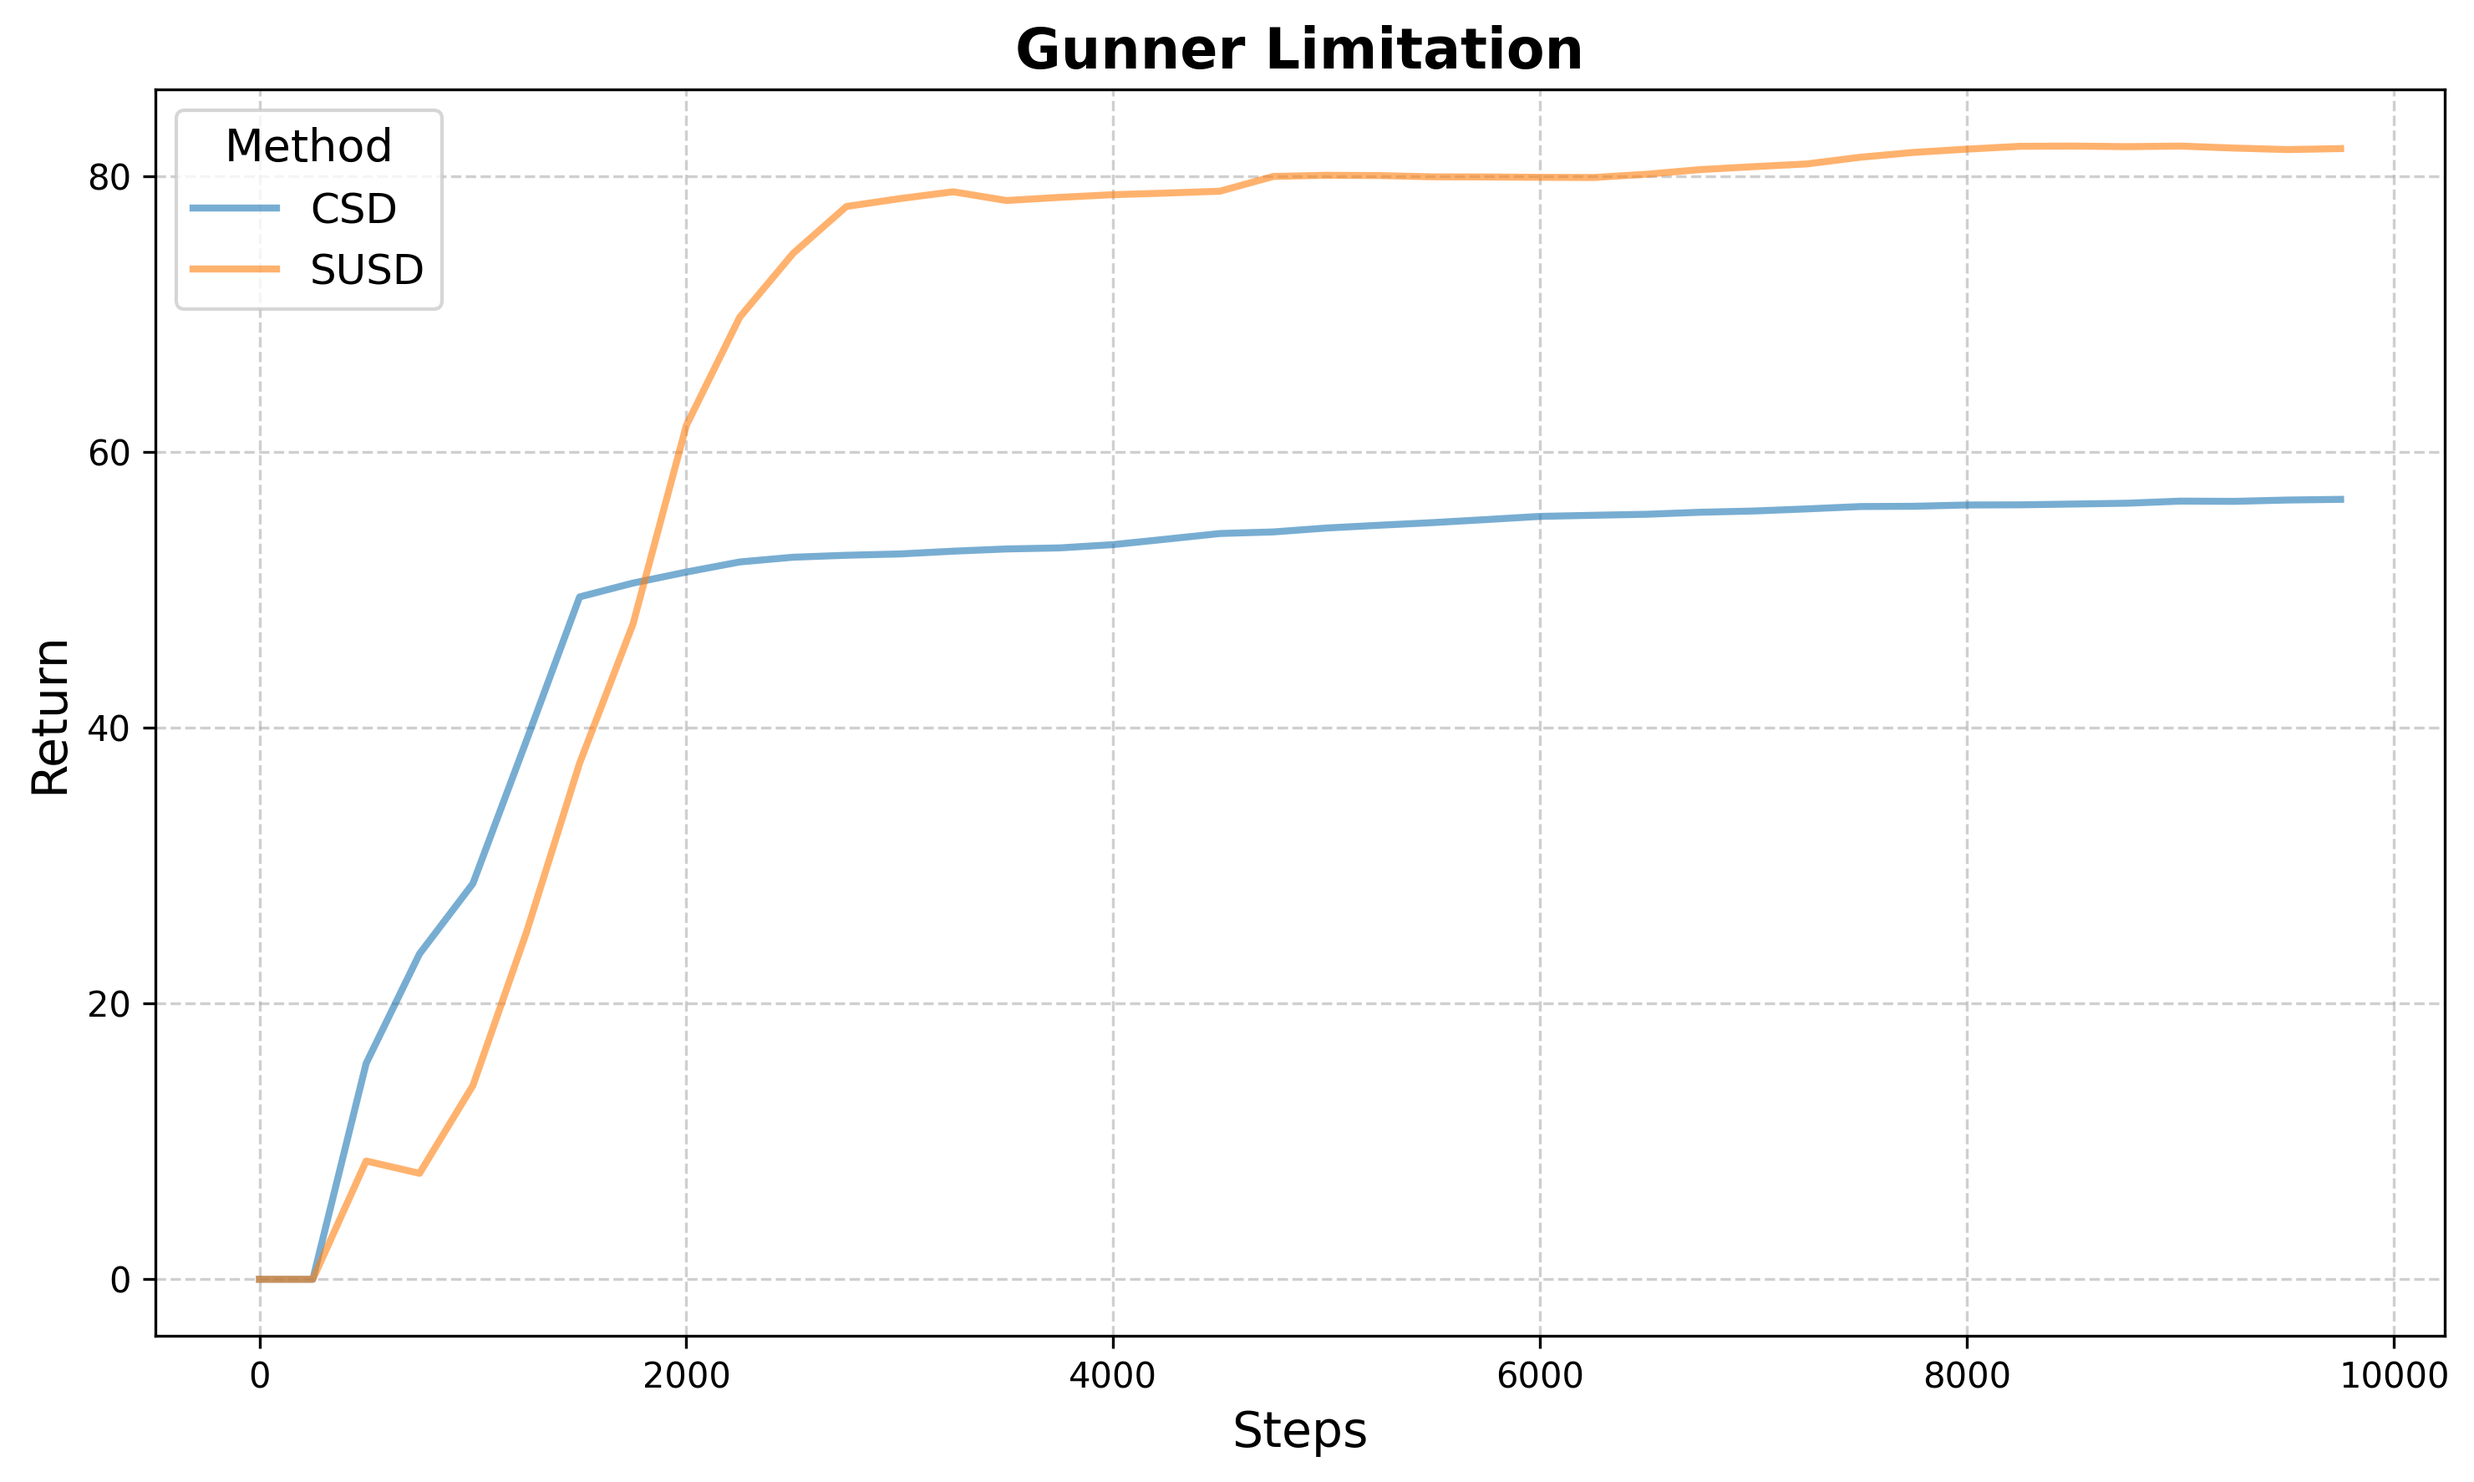
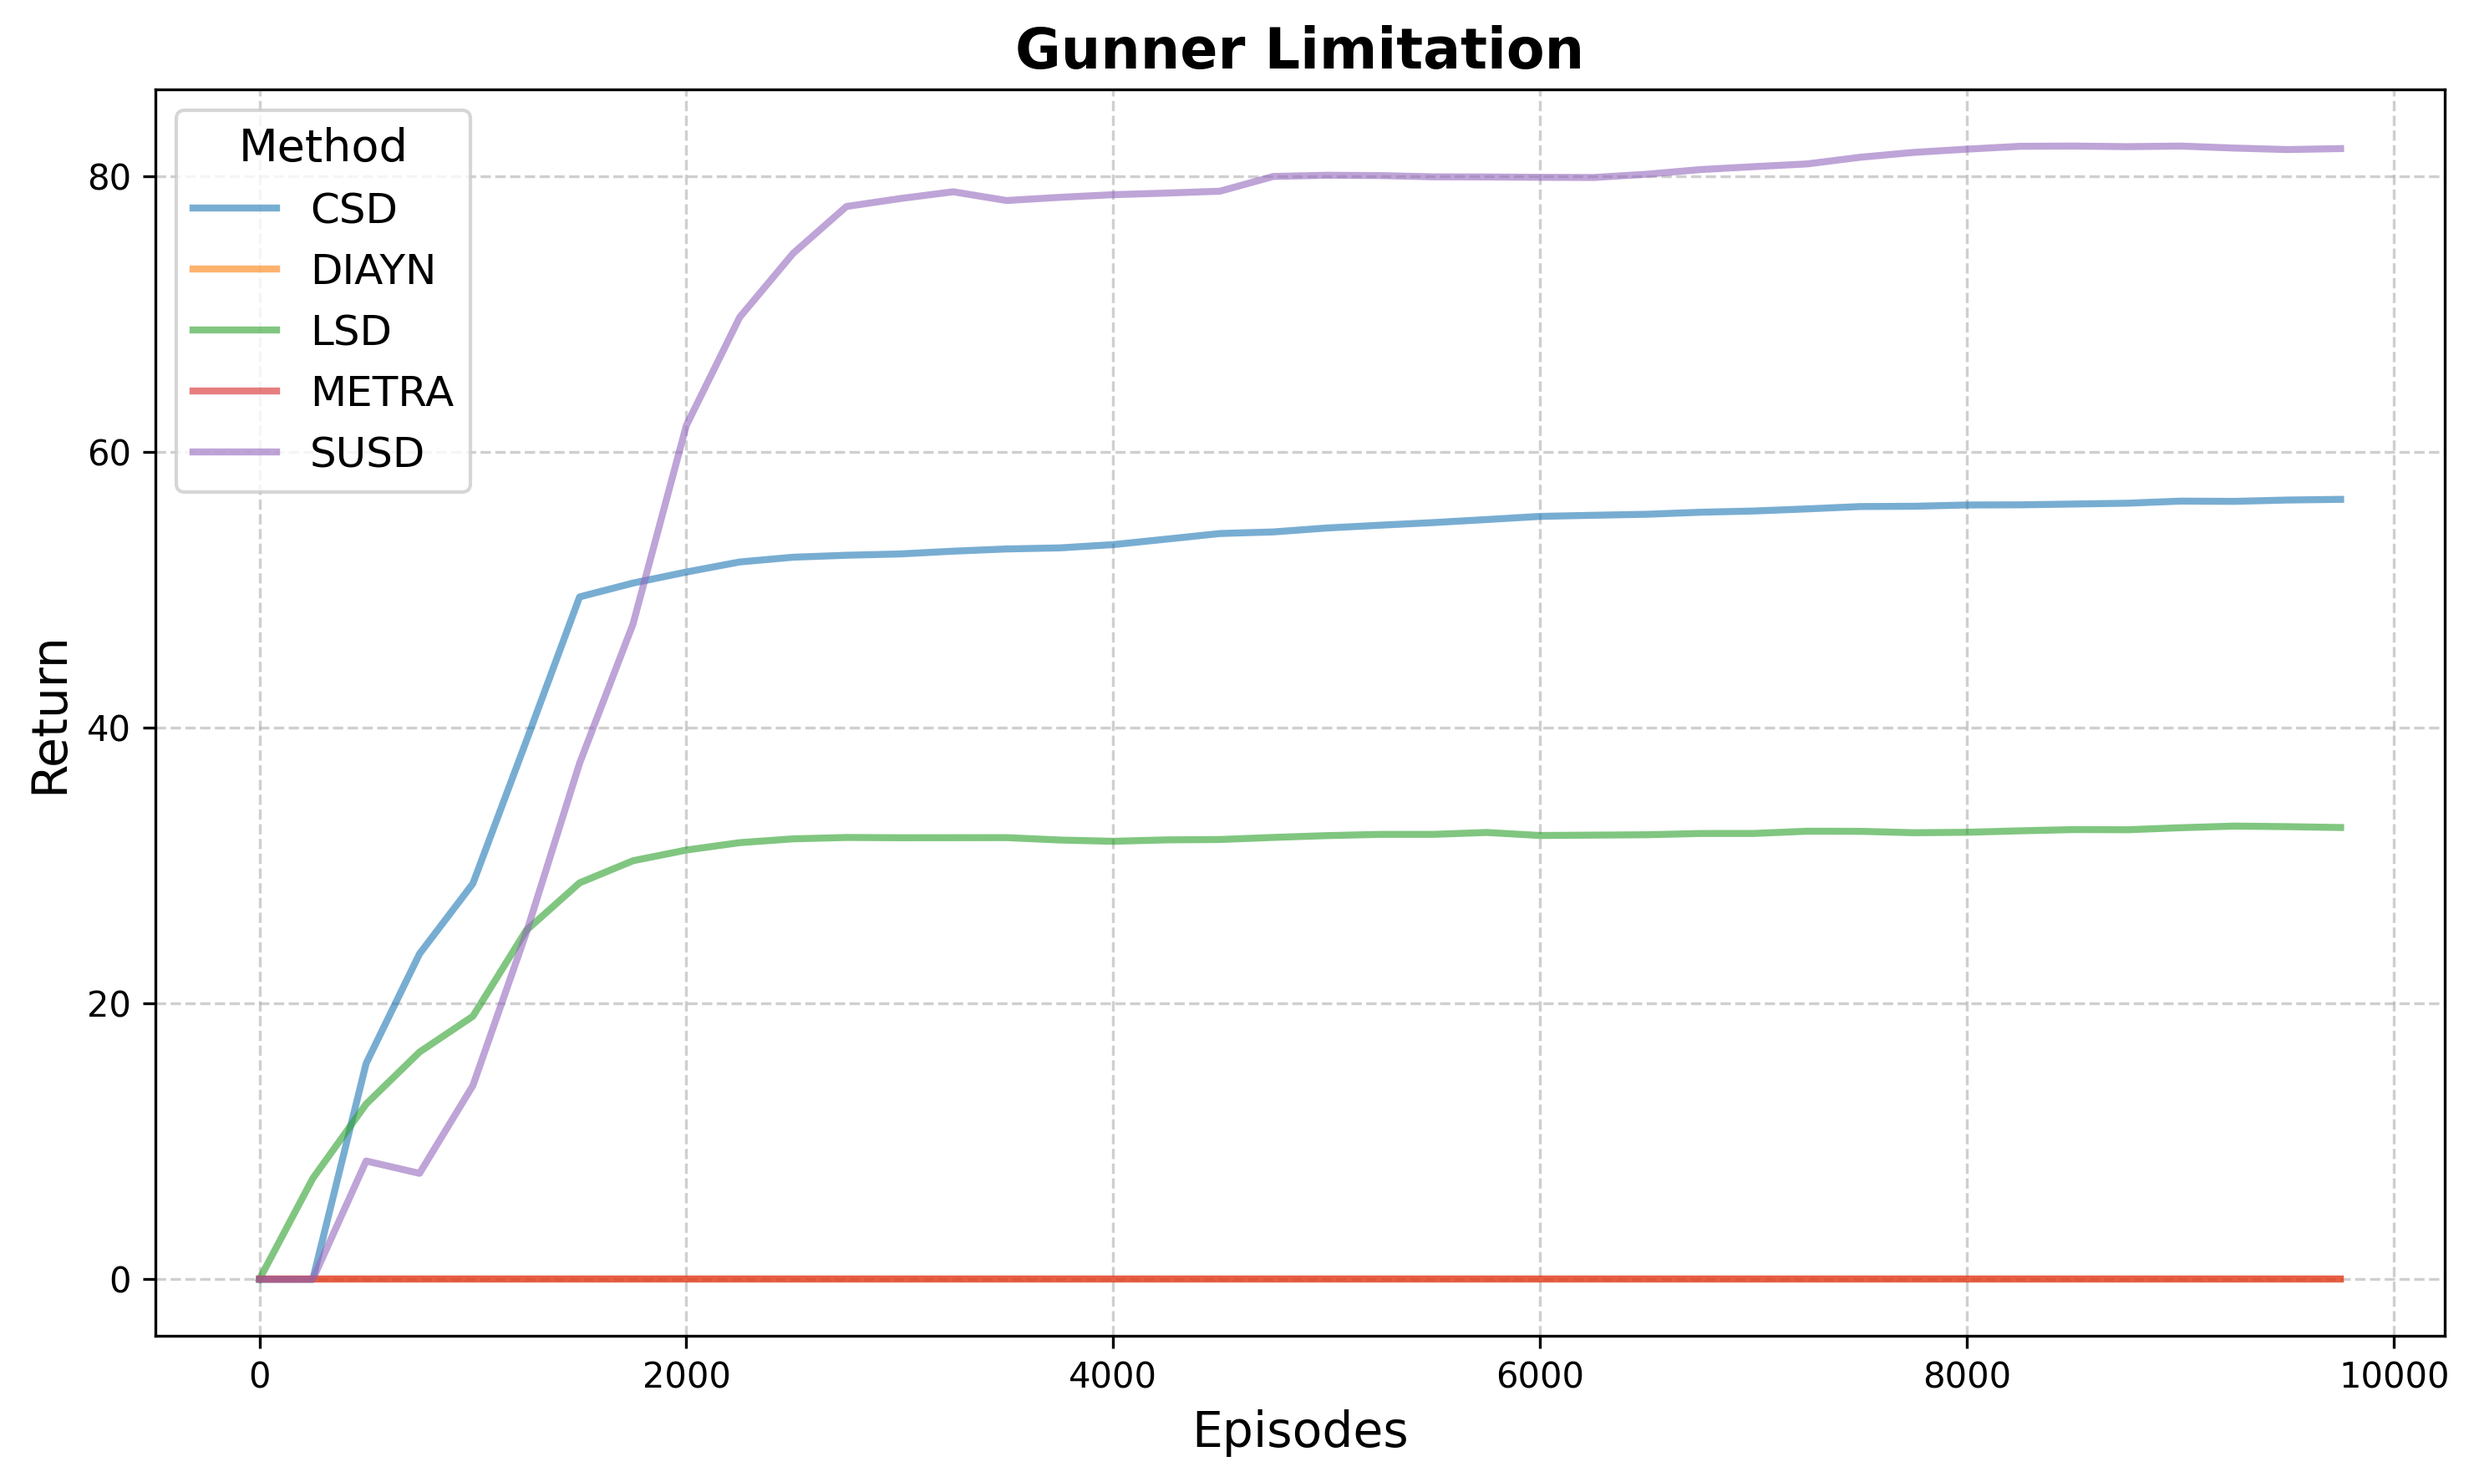
ablation1 code add

diff --git a/src/train.py b/src/train.py
@@ -125,7 +125,7 @@ class BaselineHighLevelParticleConfig(SUSDHighLevelConfig):
     max_path_length: int =  10 # 10
     dim_option: int = 2
     n_parallel: int = 1  # 1
-    task_diff: int = 1 # fp: 1: easy 2: medium 3: hard 4: diff  |  seq: 5: easy 6: medium 7:hard
+    task_diff: int = 2 # fp: 1: easy 2: medium 3: hard 4: diff  |  seq: 5: easy 6: medium 7:hard
     downstream_task: str = "fp" # fp: food&poison seq: sequential
     run_group: str = f"HRL_{baseline}_{downstream_task}_{task_diff}"
     traj_batch_size: int = 1 
@@ -168,10 +168,10 @@ class BaselineHighLevelParticleConfig(SUSDHighLevelConfig):
 class SUSDHighLevelParticleConfig(SUSDHighLevelConfig):
     max_path_length: int = 10 # 10
     dim_option: int = 20 # susd
-    task_diff: int = 1 # fp: 1: easy 2: medium 3: hard 4: diff  |  seq: 5: easy 6: medium 7:hard
+    task_diff: int = 2 # fp: 1: easy 2: medium 3: hard 4: diff  |  seq: 5: easy 6: medium 7:hard
     downstream_task: str = "fp" # fp: food&poison seq: sequential
     run_group: str = f"HRL_SUSD_{downstream_task}_{task_diff}"
-    n_parallel: int = 8 
+    n_parallel: int = 1 
     traj_batch_size: int = 1 
     num_random_trajectories: int = 100 # number of trajectories for evaluation
     cp_multi_step: int = 5 # 5
@@ -212,7 +212,7 @@ class SUSDHighLevelParticleConfig(SUSDHighLevelConfig):
 
 @dataclass
 class BaseHighLevelGunnerConfig(SUSDHighLevelConfig):
-    baseline: str = "CSD"
+    baseline: str = "DIAYN"
     max_path_length: int = 500 # 10
     dim_option: int = 2 # susd
     downstream_task: str = "lim" # lim: with limitation; nolim: no limitation
@@ -238,7 +238,7 @@ class BaseHighLevelGunnerConfig(SUSDHighLevelConfig):
     n_epochs_per_pt_save: int = 1000 # 1000
     te_only_last_frame: int  = 0
     alpha: float = 0.1
-    cp_path: str = "final_models/gunner/CSD/option_policy10000.pt"
+    cp_path: str = f"final_models/gunner/{baseline}/option_policy10000.pt"
     cp_unit_length: int = 1
 
     env: str = "gunner"
@@ -307,20 +307,20 @@ def get_causal_vector(task_diff):
     return causal_vector, agent_list
 
 
-# method = "susd_particle" # ["susd_particle", "baseline_particle"]
+method = "susd_particle" # ["susd_particle", "baseline_particle"]
 
-# if method == "susd_particle":
-#     args = SUSDHighLevelParticleConfig()
-# elif method == "baseline_particle":
-#     args = BaselineHighLevelParticleConfig()
+if method == "susd_particle":
+    args = SUSDHighLevelParticleConfig()
+elif method == "baseline_particle":
+    args = BaselineHighLevelParticleConfig()
 
 
-method = "baseline_gunner" # ["susd_gunner", "baseline_gunner"]
+# method = "baseline_gunner" # ["susd_gunner", "baseline_gunner"]
 
-if method == "susd_gunner":
-    args = SUSDHighLevelGunnerConfig()
-else:
-    args = BaseHighLevelGunnerConfig()
+# if method == "susd_gunner":
+#     args = SUSDHighLevelGunnerConfig()
+# else:
+#     args = BaseHighLevelGunnerConfig()
 
 if args.env == "particle":
     causal_vector, agent_list = get_causal_vector(args.task_diff)

diff --git a/iod/susd.py b/iod/susd.py
@@ -41,6 +41,7 @@ class SUSD(IOD):
             q1_list,
             # log_alpha_list,
             susd_q_function,
+            susd_ablation1,
 
             **kwargs,
     ):
@@ -97,6 +98,7 @@ class SUSD(IOD):
         self.exp_name = exp_name
         self.susd_dist_norm = susd_dist_norm
         self.susd_input_factor0 = susd_input_factor0
+        self.susd_ablation1 = susd_ablation1
 
         assert self._trans_optimization_epochs is not None
 
@@ -329,13 +331,17 @@ class SUSD(IOD):
                 geo_mean = torch.exp(torch.log(scaling_factor).mean(dim=1, keepdim=True))
                 normalized_scaling_factor = (scaling_factor / geo_mean) ** 2
                 normalized_csd = torch.square((next_obs - obs) - s2_dist_mean) * normalized_scaling_factor
-                if self.susd_dist_norm:
-                    if self.env_name == "kitchen_franka":
-                        csd_distances = [(59.0 * normalized_csd[:, start:end])/(end - start) for start, end in zip(self.partition_points[:-1], self.partition_points[1:])]
+
+                if self.susd_ablation1:
+                    csd_distances = torch.mean(normalized_csd, dim=1)
                 else:
-                    csd_distances = [normalized_csd[:, start:end] for start, end in zip(self.partition_points[:-1], self.partition_points[1:])]
-                csd_distances = [torch.sum(csd_distance, dim=1)/normalized_csd.shape[1] for csd_distance in csd_distances]
-                csd_distances = torch.stack(csd_distances, dim=1)
+                    if self.susd_dist_norm:
+                        if self.env_name == "kitchen_franka":
+                            csd_distances = [(59.0 * normalized_csd[:, start:end])/(end - start) for start, end in zip(self.partition_points[:-1], self.partition_points[1:])]
+                    else:
+                        csd_distances = [normalized_csd[:, start:end] for start, end in zip(self.partition_points[:-1], self.partition_points[1:])]
+                    csd_distances = [torch.sum(csd_distance, dim=1)/normalized_csd.shape[1] for csd_distance in csd_distances]
+                    csd_distances = torch.stack(csd_distances, dim=1)
 
 
                 if self.do_print:
@@ -475,8 +481,12 @@ class SUSD(IOD):
                 reward_i = self.qf1_list[i](self._get_concat_obs(self.option_policy.process_observations(v['obs'][:, start:end]), v['options'][:, start_option:end_option]), v['actions'])
                 rewards = rewards + reward_i
         else:
-            rewards = v['rewards'] * torch.sqrt(v['csd_distances'])
-            rewards = rewards.sum(dim=1)
+            if self.susd_ablation1:
+                rewards = v['rewards'].sum(dim=1)
+                rewards = rewards * torch.sqrt(v['csd_distances'])
+            else:
+                rewards = v['rewards'] * torch.sqrt(v['csd_distances'])
+                rewards = rewards.sum(dim=1)
 
         sac_utils.update_loss_qf(
             self, tensors, v,

diff --git a/src/conf.py b/src/conf.py
@@ -96,6 +96,7 @@ class SUSDConfig:
     dual_dist: str = 'one'  # Distance metric choice; options: 'l2', 's2_from_s', 'one'
     susd_dist_norm: int = 0 # to normalize each distribution 
     susd_input_factor0: int = 0 # input factor 0 (robot) to other phi functions.
+    susd_ablation1: int = 0 # use csd weight for all factors
 
 
 # --- Specific Configs ---
@@ -180,7 +181,7 @@ class SUSDAntConfig(SUSDConfig):
 
 @dataclass
 class SUSDParticle(SUSDConfig):
-    run_group: str = 'SUSD_PARTICLE'
+    run_group: str = 'SUSD_ABLATION1'
     env: str = 'particle'
     max_path_length: int = 50
     seed: int = 0
@@ -204,6 +205,7 @@ class SUSDParticle(SUSDConfig):
     susd_dist_norm: int = 0 # using normalization for marginal distribution
     susd_input_factor0: int = 1 # input factor zero (robot) to the other phi functions
     susd_q_function: int = 0 # 1: use q-function for reward estimation 0: off
+    susd_ablation1: int = 1 # use CSD weight for all factors
 
 
 

diff --git a/src/pretrain.py b/src/pretrain.py
@@ -63,8 +63,8 @@ else:
 
 
 # args = SUSDFrankaKitchenConfig()
-# args = SUSDParticle()
-args = SUSDGunner()
+args = SUSDParticle()
+# args = SUSDGunner()
 
 
 @wrap_experiment(log_dir=get_log_dir(args), name=get_exp_name(args)[0])
@@ -424,7 +424,8 @@ def run(ctxt=None):
         exp_name = get_exp_name(args)[0],
         susd_dist_norm=args.susd_dist_norm,
         susd_input_factor0 = args.susd_input_factor0,
-        susd_q_function = args.susd_q_function
+        susd_q_function = args.susd_q_function,
+        susd_ablation1 = args.susd_ablation1
     )
 
     if args.algo == 'metra':

diff --git a/visualization/gunner.py b/visualization/gunner.py
@@ -3,9 +3,7 @@ import matplotlib.pyplot as plt
 from tbparse import SummaryReader
 import numpy as np
 
-# methods = ["CSD", "METRA", "LSD", "DIAYN", "SUSD"]
-methods = ["CSD", "SUSD"]
-
+methods = ["CSD", "METRA", "LSD", "DIAYN", "SUSD"]
 
 def lim(): 
     all_dfs = []
@@ -99,7 +97,7 @@ def plot_result(df, save_path, title):
 
     # styling
     plt.title(title, fontsize=16, weight="bold")
-    plt.xlabel("Steps", fontsize=14)
+    plt.xlabel("Episodes", fontsize=14)
     plt.ylabel("Return", fontsize=14)
 
     plt.grid(True, linestyle="--", alpha=0.6)

diff --git a/iod/iod.py b/iod/iod.py
@@ -293,7 +293,7 @@ class IOD(RLAlgorithm):
     def process_samples(self, paths):
         data = defaultdict(list)
         for path in paths:
-            print(path['rewards'])
+            # print(path['rewards'])
             data['obs'].append(path['observations'])
             data['next_obs'].append(path['next_observations'])
             data['actions'].append(path['actions'])

diff --git a/README.md b/README.md
@@ -1,4 +1,4 @@
-# DSD
+# SUSD
 
 The implementation is based on
 [METRA: Scalable Unsupervised RL with Metric-Aware Abstraction](https://github.com/seohongpark/METRA).
@@ -17,32 +17,4 @@ pip install -e .
 pip install -e garaged
 cd envs/Pettingzoo-skill
 pip install -e .
-```
-
-## Examples
-
-```
-# METRA on state-based Ant (2-D skills)
-python tests/main.py --run_group Debug --env ant --max_path_length 200 --seed 0 --traj_batch_size 8 --n_parallel 1 --normalizer_type preset --eval_plot_axis -50 50 -50 50 --trans_optimization_epochs 50 --n_epochs_per_log 100 --n_epochs_per_eval 1000 --n_epochs_per_save 10000 --sac_max_buffer_size 1000000 --algo metra --discrete 0 --dim_option 2
-
-# LSD on state-based Ant (2-D skills)
-python tests/main.py --run_group Debug --env ant --max_path_length 200 --seed 0 --traj_batch_size 8 --n_parallel 1 --normalizer_type preset --eval_plot_axis -50 50 -50 50 --trans_optimization_epochs 50 --n_epochs_per_log 100 --n_epochs_per_eval 1000 --n_epochs_per_save 10000 --sac_max_buffer_size 1000000 --algo metra --dual_reg 0 --spectral_normalization 1 --discrete 0 --dim_option 2
-
-# DADS on state-based Ant (2-D skills)
-python tests/main.py --run_group Debug --env ant --max_path_length 200 --seed 0 --traj_batch_size 8 --n_parallel 1 --normalizer_type preset --eval_plot_axis -50 50 -50 50 --trans_optimization_epochs 50 --n_epochs_per_log 100 --n_epochs_per_eval 1000 --n_epochs_per_save 10000 --sac_max_buffer_size 1000000 --algo dads --inner 0 --unit_length 0 --dual_reg 0 --discrete 0 --dim_option 2
-
-# DIAYN on state-based Ant (2-D skills)
-python tests/main.py --run_group Debug --env ant --max_path_length 200 --seed 0 --traj_batch_size 8 --n_parallel 1 --normalizer_type preset --eval_plot_axis -50 50 -50 50 --trans_optimization_epochs 50 --n_epochs_per_log 100 --n_epochs_per_eval 1000 --n_epochs_per_save 10000 --sac_max_buffer_size 1000000 --algo metra --inner 0 --unit_length 0 --dual_reg 0 --discrete 0 --dim_option 2
-
-# METRA on state-based HalfCheetah (16 skills)
-python tests/main.py --run_group Debug --env half_cheetah --max_path_length 200 --seed 0 --traj_batch_size 8 --n_parallel 1 --normalizer_type preset --trans_optimization_epochs 50 --n_epochs_per_log 100 --n_epochs_per_eval 1000 --n_epochs_per_save 10000 --sac_max_buffer_size 1000000 --algo metra --discrete 1 --dim_option 16
-
-# METRA on pixel-based Quadruped (4-D skills)
-python tests/main.py --run_group Debug --env dmc_quadruped --max_path_length 200 --seed 0 --traj_batch_size 8 --n_parallel 4 --normalizer_type off --video_skip_frames 2 --frame_stack 3 --sac_max_buffer_size 300000 --eval_plot_axis -15 15 -15 15 --algo metra --trans_optimization_epochs 200 --n_epochs_per_log 25 --n_epochs_per_eval 125 --n_epochs_per_save 1000 --n_epochs_per_pt_save 1000 --discrete 0 --dim_option 4 --encoder 1 --sample_cpu 0
-
-# METRA on pixel-based Humanoid (2-D skills)
-python tests/main.py --run_group Debug --env dmc_humanoid --max_path_length 200 --seed 0 --traj_batch_size 8 --n_parallel 4 --normalizer_type off --video_skip_frames 2 --frame_stack 3 --sac_max_buffer_size 300000 --eval_plot_axis -15 15 -15 15 --algo metra --trans_optimization_epochs 200 --n_epochs_per_log 25 --n_epochs_per_eval 125 --n_epochs_per_save 1000 --n_epochs_per_pt_save 1000 --discrete 0 --dim_option 2 --encoder 1 --sample_cpu 0
-
-# METRA on pixel-based Kitchen (24 skills)
-python tests/main.py --run_group Debug --env kitchen --max_path_length 50 --seed 0 --traj_batch_size 8 --n_parallel 4 --normalizer_type off --num_video_repeats 1 --frame_stack 3 --sac_max_buffer_size 100000 --algo metra --sac_lr_a -1 --trans_optimization_epochs 100 --n_epochs_per_log 25 --n_epochs_per_eval 250 --n_epochs_per_save 1000 --n_epochs_per_pt_save 1000 --discrete 1 --dim_option 24 --encoder 1 --sample_cpu 0
 ```
